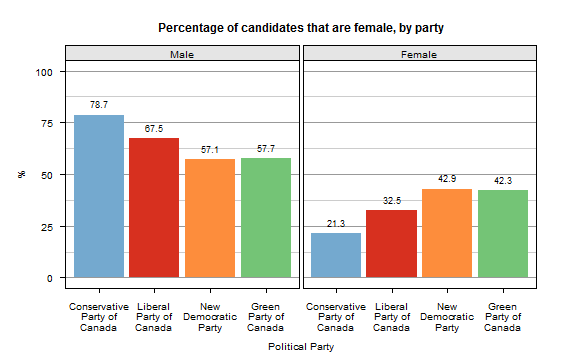
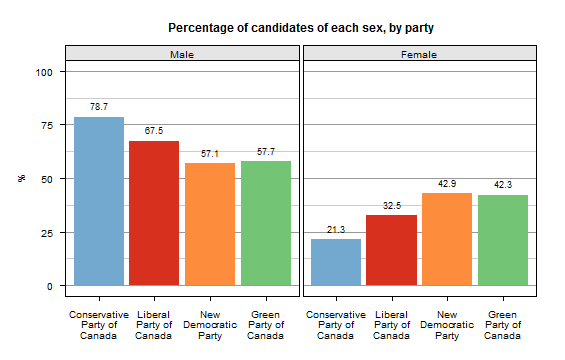
title in config, copy-editing, figure labels

diff --git a/_posts/2015-10-13-gender.md b/_posts/2015-10-13-gender.md
@@ -5,13 +5,15 @@ title: Gender parity in the 2015 Canadian federal election
 
 There are 1,792 candidates from 25 political parties across 338 electoral districts participating in Canada's 2015 federal election. Of these candidates, 560, or 31.2%, are female.
 
-The presence of women in elected positions isn't the only indicator that women are adequately represented in government, but it is a pretty important one. How can political parties claim to speak for women if they don't count any women among their leaders? At the very least, we would expect a party that treats men and women equally within its own ranks to put forth male and female candidates for election in roughly even proportions. This is especially true when there are a large number of candidates up for election. However, it is far from the case in Canada's 2015 federal election.  
+The presence of women in elected positions isn't the only indicator that women are adequately represented in government, but it is a pretty important one. How can political parties claim to speak for women if they don't count any women among their leaders? 
+
+At a minimum, we would expect a party that treats men and women equally within its own ranks to advance male and female candidates for election in roughly even proportions. This is especially true when there are a large number of candidates up for election. However, it is far from the reality in Canada's 2015 federal election.  
 
 From the four largest national parties <sub><sup>(Conservative, Liberal, NDP, and Green, in case you haven't had coffee today)</sup></sub>, there are 1,350 candidates, 469 of whom (34.7%) are female. 
 
 
 
-<img src="figure/fig1-1.png" title="plot of chunk fig1" alt="plot of chunk fig1" style="display: block; margin: auto;" />
+<img src="figure/fig1-1.png" title="plot of chunk fig1" style="display: block; max-width: 800px; margin: auto;" />
 
 In both the NDP and the Green Party, a respectable 42% of candidates are female - not too bad. By comparison, the Liberals look worse in this department, with about a third of their candidates being female. 
 
@@ -19,7 +21,7 @@ The Conservatives bring up the rear, with an embarassingly low 21% of candidates
 
 
 
-<img src="figure/fig2-1.png" title="plot of chunk fig2" alt="plot of chunk fig2" style="display: block; margin: auto;" />
+<img src="figure/fig2-1.png" title="plot of chunk fig2" style="display: block; max-width: 800px; margin: auto;" />
 
 In general, the provinces resemble each other pretty closely along this dimension, with women accounting for between 30 and 40 percent of candidates. Nova Scotia is a glaring exception, with only a fifth of candidates from these parties being female. That said, the figures in the low 30s observed in Saskatchewan, Ontario, and PEI are nothing to be proud of either.
 
@@ -29,4 +31,4 @@ For the sake of completeness, I include plots of female representation broken do
 
 
 
-<img src="figure/fig3-1.png" title="plot of chunk fig3" alt="plot of chunk fig3" style="display: block; margin: auto;" />
+<img src="figure/fig3-1.png" title="plot of chunk fig3" style="display: block; max-width: 800px; margin: auto;" />
